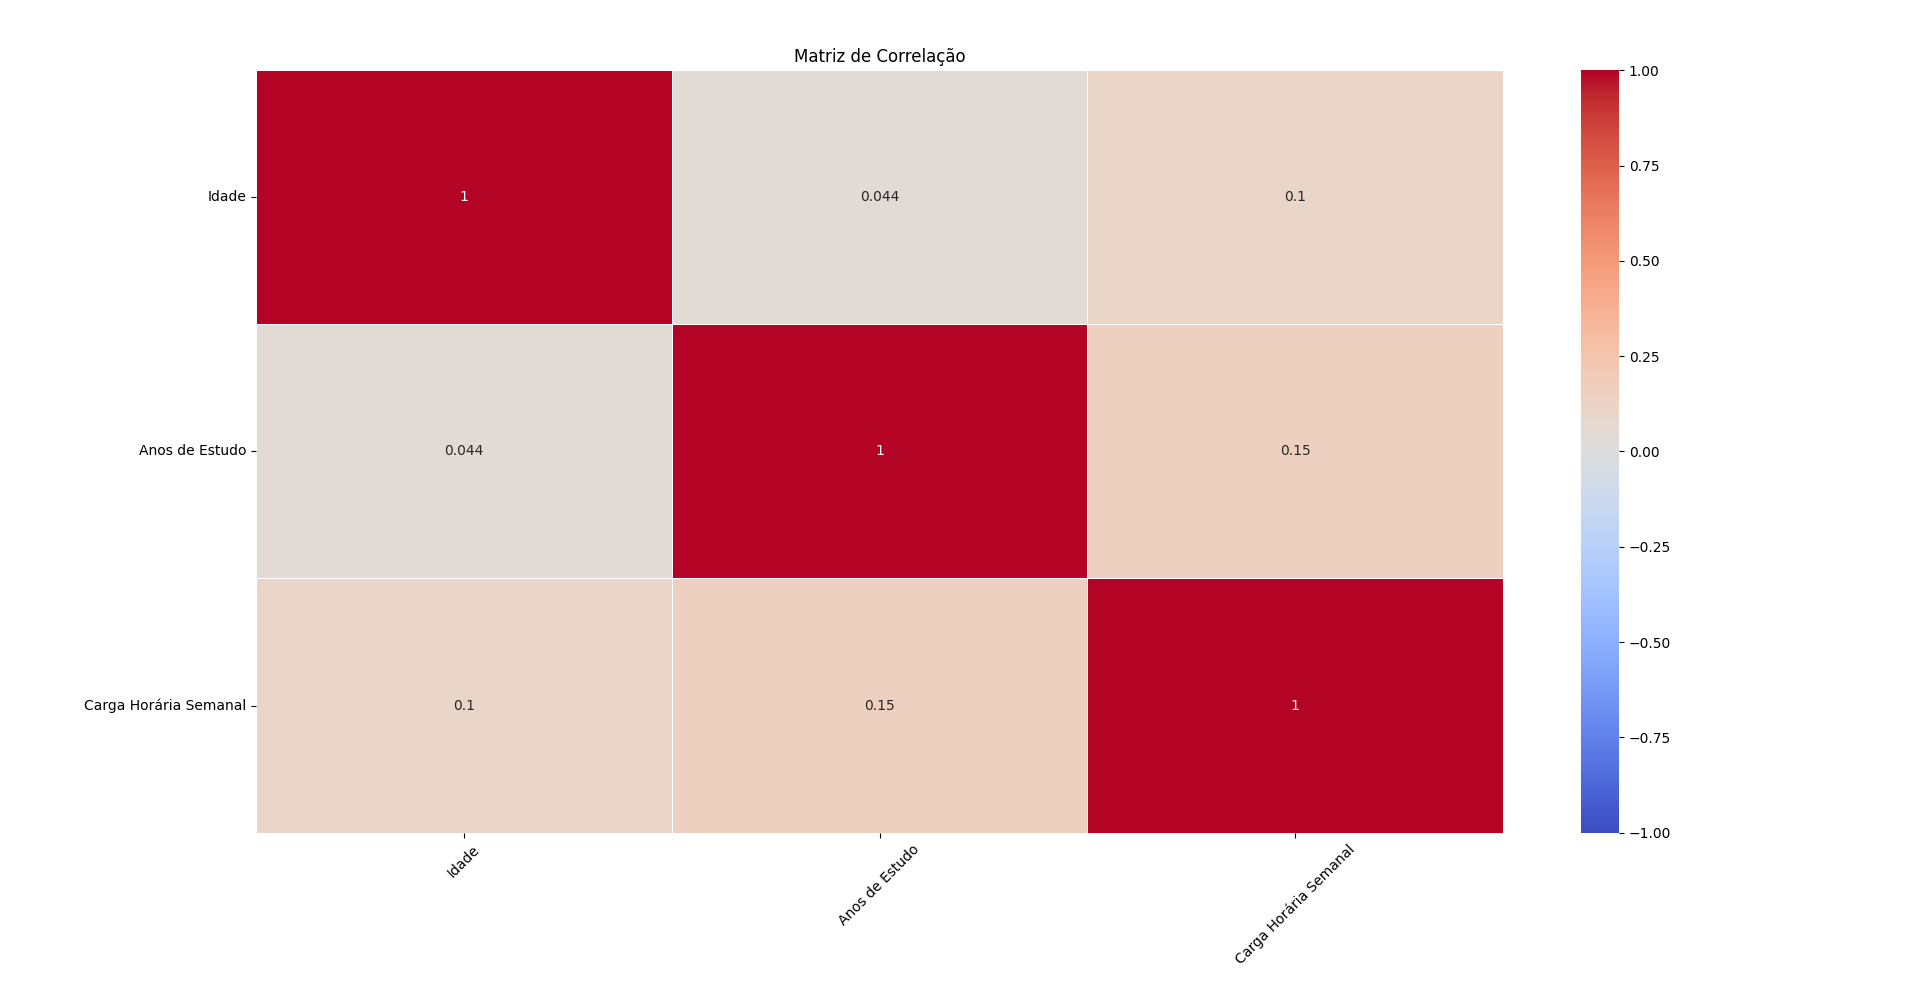
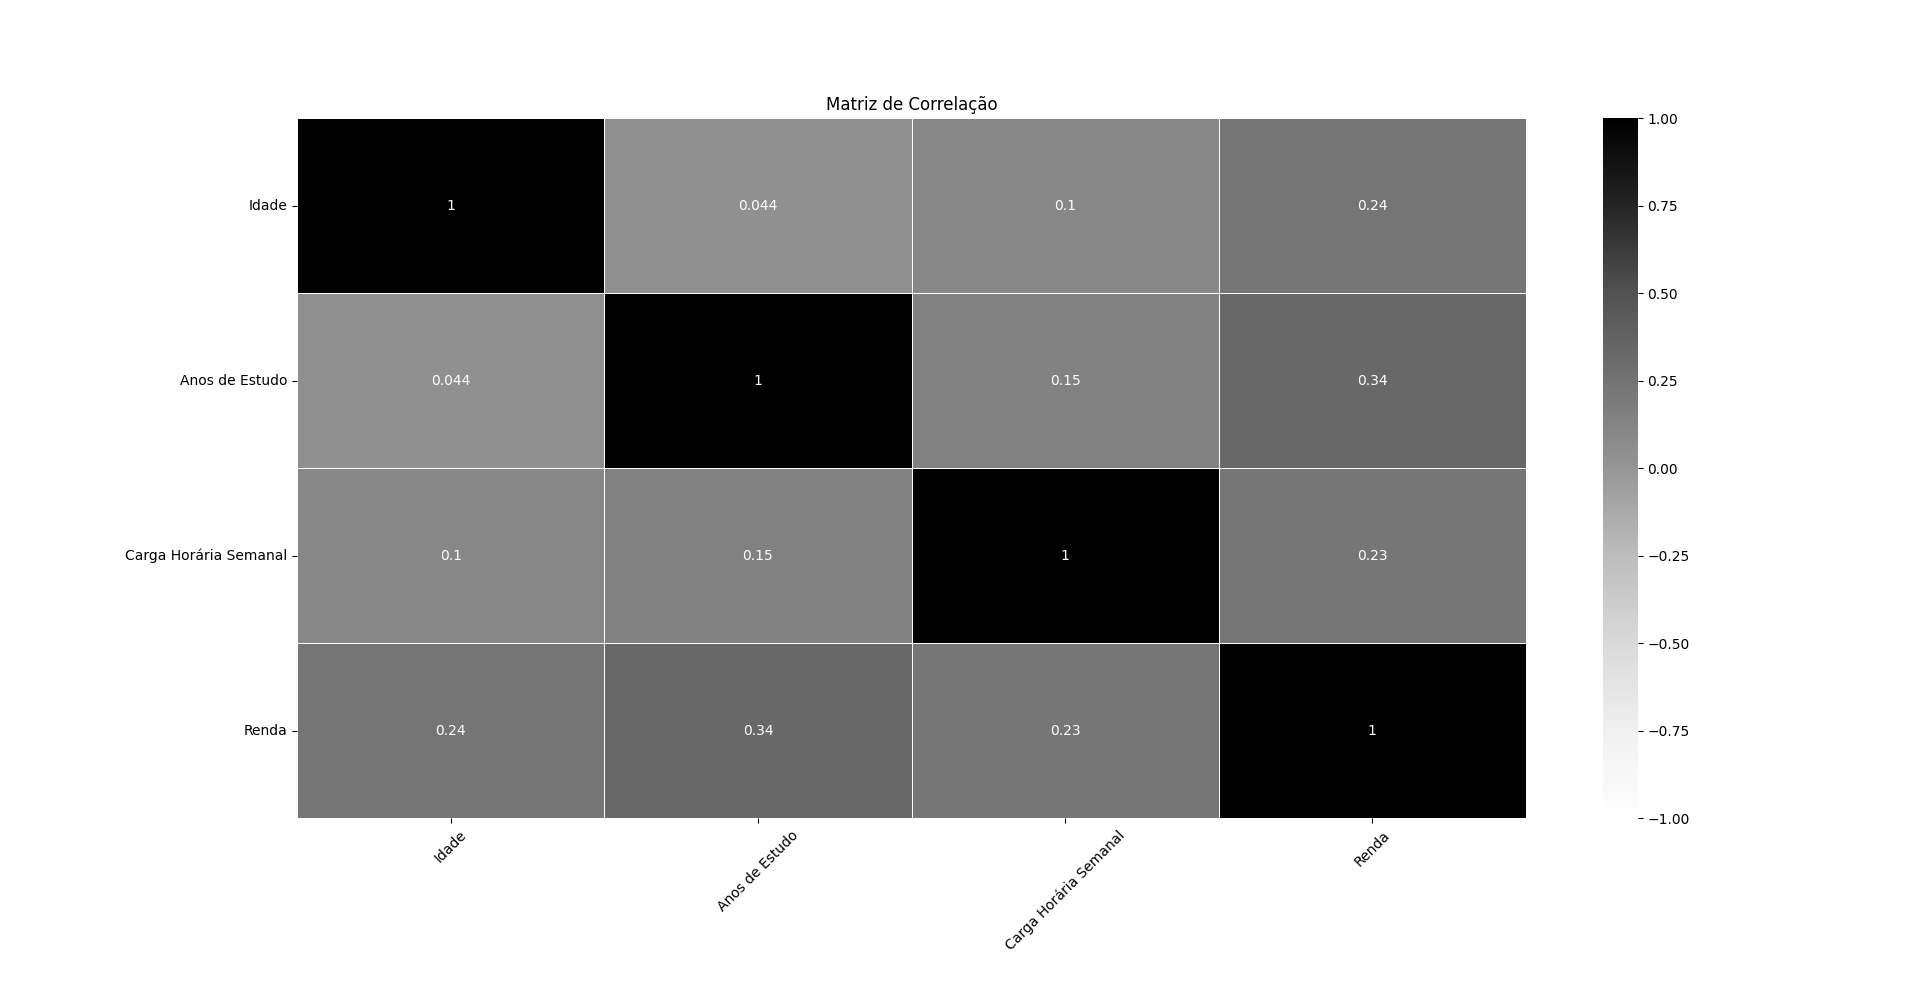
fix-up

diff --git a/correlacao_quantitativa.py b/correlacao_quantitativa.py
@@ -13,12 +13,15 @@ adult = pd.read_excel(
         'Idade',
         'Anos de Estudo',
         'Carga Horária Semanal',
+        'Renda',
     ],
 )
 
+adult['Renda'] = adult['Renda'].map({'<=50K': 0, '>50K': 1})
+
 matrix_correlacao = adult.corr()
 plt.figure(figsize=(5, 2))
-sns.heatmap(matrix_correlacao, annot=True, cmap='coolwarm', vmin=-1, vmax=1, linewidth=.5)
+sns.heatmap(matrix_correlacao, annot=True, cmap='Greys', vmin=-1, vmax=1, linewidth=.5)
 plt.title('Matriz de Correlação')
 plt.xticks(rotation=45)
 plt.show()
